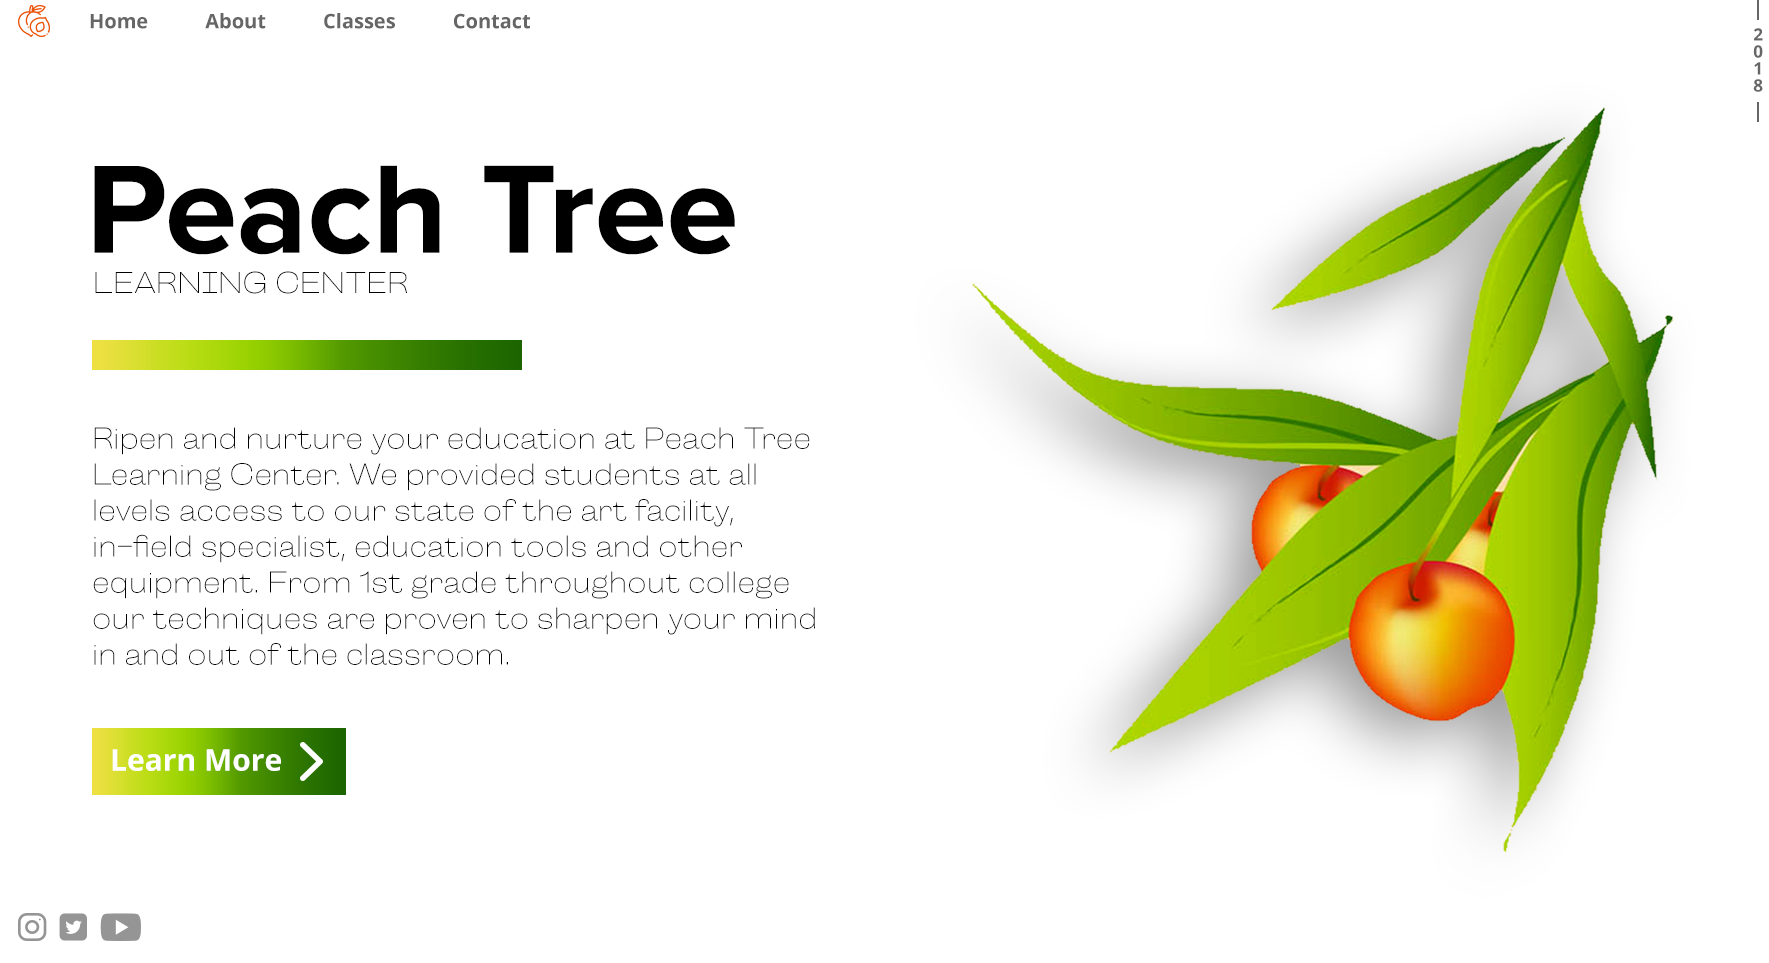
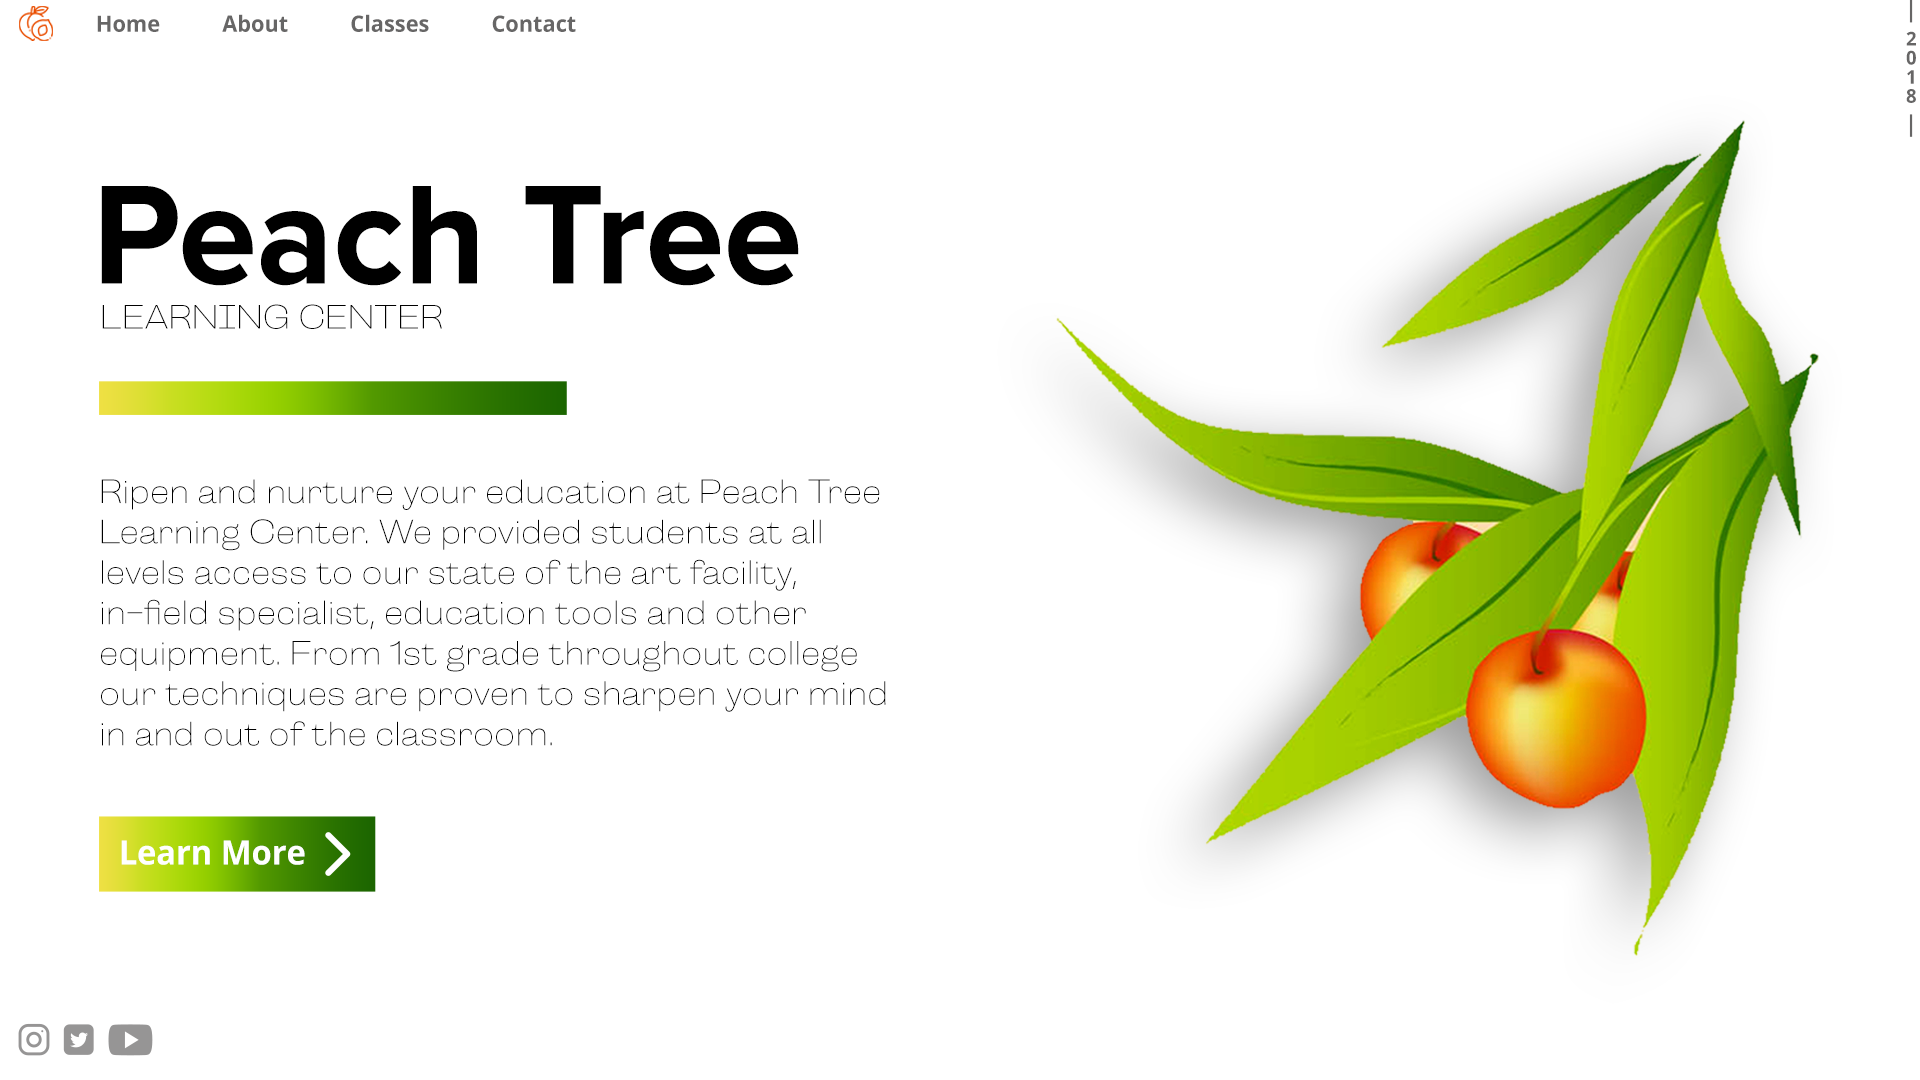
add header

diff --git a/css/creative.min.css b/css/creative.min.css
@@ -2,4 +2,4 @@
  * Start Bootstrap - Creative v5.0.1 (https://startbootstrap.com/template-overviews/creative)
  * Copyright 2013-2018 Start Bootstrap
  * Licensed under MIT (https://github.com/BlackrockDigital/startbootstrap-creative/blob/master/LICENSE)
- */body,html{width:100%;height:100%}body{font-family:Merriweather,'Helvetica Neue',Arial,sans-serif}hr{max-width:50px;border-width:3px;border-color:#f05f40}hr.light{border-color:#fff}a{color:#f05f40;-webkit-transition:all .2s;transition:all .2s}a:hover{color:#f05f40}h1,h2,h3,h4,h5,h6{font-family:'Open Sans','Helvetica Neue',Arial,sans-serif}.bg-primary{background-color:#f05f40!important}.bg-dark{background-color:#212529!important}.text-faded{color:rgba(255,255,255,.7)}section{padding:8rem 0}.section-heading{margin-top:0}::-moz-selection{color:#fff;background:#212529;text-shadow:none}::selection{color:#fff;background:#212529;text-shadow:none}img::-moz-selection{color:#fff;background:0 0}img::selection{color:#fff;background:0 0}img::-moz-selection{color:#fff;background:0 0}#mainNav{border-bottom:1px solid rgba(33,37,41,.1);background-color:#fff;font-family:'Open Sans','Helvetica Neue',Arial,sans-serif;-webkit-transition:all .2s;transition:all .2s}#mainNav .navbar-brand{font-weight:700;text-transform:uppercase;color:#f05f40;font-family:'Open Sans','Helvetica Neue',Arial,sans-serif}#mainNav .navbar-brand:focus,#mainNav .navbar-brand:hover{color:#f05f40}#mainNav .navbar-nav>li.nav-item>a.nav-link,#mainNav .navbar-nav>li.nav-item>a.nav-link:focus{font-size:.9rem;font-weight:700;text-transform:uppercase;color:#212529}#mainNav .navbar-nav>li.nav-item>a.nav-link:focus:hover,#mainNav .navbar-nav>li.nav-item>a.nav-link:hover{color:#f05f40}#mainNav .navbar-nav>li.nav-item>a.nav-link.active,#mainNav .navbar-nav>li.nav-item>a.nav-link:focus.active{color:#f05f40!important;background-color:transparent}#mainNav .navbar-nav>li.nav-item>a.nav-link.active:hover,#mainNav .navbar-nav>li.nav-item>a.nav-link:focus.active:hover{background-color:transparent}@media (min-width:992px){#mainNav{border-color:transparent;background-color:transparent}#mainNav .navbar-brand{color:rgba(255,255,255,.7)}#mainNav .navbar-brand:focus,#mainNav .navbar-brand:hover{color:#fff}#mainNav .navbar-nav>li.nav-item>a.nav-link{padding:.5rem 1rem}#mainNav .navbar-nav>li.nav-item>a.nav-link,#mainNav .navbar-nav>li.nav-item>a.nav-link:focus{color:rgba(255,255,255,.7)}#mainNav .navbar-nav>li.nav-item>a.nav-link:focus:hover,#mainNav .navbar-nav>li.nav-item>a.nav-link:hover{color:#fff}#mainNav.navbar-shrink{border-bottom:1px solid rgba(33,37,41,.1);background-color:#fff}#mainNav.navbar-shrink .navbar-brand{color:#f05f40}#mainNav.navbar-shrink .navbar-brand:focus,#mainNav.navbar-shrink .navbar-brand:hover{color:#f05f40}#mainNav.navbar-shrink .navbar-nav>li.nav-item>a.nav-link,#mainNav.navbar-shrink .navbar-nav>li.nav-item>a.nav-link:focus{color:#212529}#mainNav.navbar-shrink .navbar-nav>li.nav-item>a.nav-link:focus:hover,#mainNav.navbar-shrink .navbar-nav>li.nav-item>a.nav-link:hover{color:#f05f40}}header.masthead{padding-top:10rem;padding-bottom:calc(10rem - 56px);background-image:url(../img/header.jpg);background-position:center center;background-size:cover}header.masthead hr{margin-top:30px;margin-bottom:30px}header.masthead h1{font-size:2rem}header.masthead p{font-weight:300}@media (min-width:768px){header.masthead p{font-size:1.15rem}}@media (min-width:992px){header.masthead{height:100vh;min-height:650px;padding-top:0;padding-bottom:0}header.masthead h1{font-size:3rem}}@media (min-width:1200px){header.masthead h1{font-size:4rem}}.service-box{max-width:400px}.portfolio-box{position:relative;display:block;max-width:650px;margin:0 auto}.portfolio-box .portfolio-box-caption{position:absolute;bottom:0;display:block;width:100%;height:100%;text-align:center;opacity:0;color:#fff;background:rgba(240,95,64,.9);-webkit-transition:all .2s;transition:all .2s}.portfolio-box .portfolio-box-caption .portfolio-box-caption-content{position:absolute;top:50%;width:100%;-webkit-transform:translateY(-50%);transform:translateY(-50%);text-align:center}.portfolio-box .portfolio-box-caption .portfolio-box-caption-content .project-category,.portfolio-box .portfolio-box-caption .portfolio-box-caption-content .project-name{padding:0 15px;font-family:'Open Sans','Helvetica Neue',Arial,sans-serif}.portfolio-box .portfolio-box-caption .portfolio-box-caption-content .project-category{font-size:14px;font-weight:600;text-transform:uppercase}.portfolio-box .portfolio-box-caption .portfolio-box-caption-content .project-name{font-size:18px}.portfolio-box:hover .portfolio-box-caption{opacity:1}.portfolio-box:focus{outline:0}@media (min-width:768px){.portfolio-box .portfolio-box-caption .portfolio-box-caption-content .project-category{font-size:16px}.portfolio-box .portfolio-box-caption .portfolio-box-caption-content .project-name{font-size:22px}}.text-primary{color:#f05f40!important}.btn{font-weight:700;text-transform:uppercase;border:none;border-radius:300px;font-family:'Open Sans','Helvetica Neue',Arial,sans-serif}.btn-xl{padding:1rem 2rem}.btn-primary{background-color:#f05f40;border-color:#f05f40}.btn-primary:active,.btn-primary:focus,.btn-primary:hover{color:#fff;background-color:#ee4b28!important}.btn-primary:active,.btn-primary:focus{-webkit-box-shadow:0 0 0 .2rem rgba(240,95,64,.5)!important;box-shadow:0 0 0 .2rem rgba(240,95,64,.5)!important}
+ */body,html{width:100%;height:100%}body{font-family:Merriweather,'Helvetica Neue',Arial,sans-serif}hr{max-width:50px;border-width:3px;border-color:#f05f40}hr.light{border-color:#fff}a{color:#f05f40;-webkit-transition:all .2s;transition:all .2s}a:hover{color:#f05f40}h1,h2,h3,h4,h5,h6{font-family:'Open Sans','Helvetica Neue',Arial,sans-serif}.bg-primary{background-color:#f05f40!important}.bg-dark{background-color:#212529!important}.text-faded{color:rgba(255,255,255,.7)}section{padding:8rem 0}.section-heading{margin-top:0}::-moz-selection{color:#fff;background:#212529;text-shadow:none}::selection{color:#fff;background:#212529;text-shadow:none}img::-moz-selection{color:#fff;background:0 0}img::selection{color:#fff;background:0 0}img::-moz-selection{color:#fff;background:0 0}#mainNav{border-bottom:1px solid rgba(33,37,41,.1);background-color:#fff;font-family:'Open Sans','Helvetica Neue',Arial,sans-serif;-webkit-transition:all .2s;transition:all .2s}#mainNav .navbar-brand{font-weight:700;text-transform:uppercase;color:#f05f40;font-family:'Open Sans','Helvetica Neue',Arial,sans-serif}#mainNav .navbar-brand:focus,#mainNav .navbar-brand:hover{color:#f05f40}#mainNav .navbar-nav>li.nav-item>a.nav-link,#mainNav .navbar-nav>li.nav-item>a.nav-link:focus{font-size:.9rem;font-weight:700;text-transform:uppercase;color:#212529}#mainNav .navbar-nav>li.nav-item>a.nav-link:focus:hover,#mainNav .navbar-nav>li.nav-item>a.nav-link:hover{color:#f05f40}#mainNav .navbar-nav>li.nav-item>a.nav-link.active,#mainNav .navbar-nav>li.nav-item>a.nav-link:focus.active{color:#f05f40!important;background-color:transparent}#mainNav .navbar-nav>li.nav-item>a.nav-link.active:hover,#mainNav .navbar-nav>li.nav-item>a.nav-link:focus.active:hover{background-color:transparent}@media (min-width:992px){#mainNav{border-color:transparent;background-color:transparent}#mainNav .navbar-brand{color:rgba(255,255,255,.7)}#mainNav .navbar-brand:focus,#mainNav .navbar-brand:hover{color:#fff}#mainNav .navbar-nav>li.nav-item>a.nav-link{padding:.5rem 1rem}#mainNav .navbar-nav>li.nav-item>a.nav-link,#mainNav .navbar-nav>li.nav-item>a.nav-link:focus{color:rgba(255,255,255,.7)}#mainNav .navbar-nav>li.nav-item>a.nav-link:focus:hover,#mainNav .navbar-nav>li.nav-item>a.nav-link:hover{color:#fff}#mainNav.navbar-shrink{border-bottom:1px solid rgba(33,37,41,.1);background-color:#fff}#mainNav.navbar-shrink .navbar-brand{color:#f05f40}#mainNav.navbar-shrink .navbar-brand:focus,#mainNav.navbar-shrink .navbar-brand:hover{color:#f05f40}#mainNav.navbar-shrink .navbar-nav>li.nav-item>a.nav-link,#mainNav.navbar-shrink .navbar-nav>li.nav-item>a.nav-link:focus{color:#212529}#mainNav.navbar-shrink .navbar-nav>li.nav-item>a.nav-link:focus:hover,#mainNav.navbar-shrink .navbar-nav>li.nav-item>a.nav-link:hover{color:#f05f40}}header.masthead{padding-top:10rem;padding-bottom:calc(10rem - 56px);background-image:url(../img/header.png);background-position:center center;background-size:cover}header.masthead hr{margin-top:30px;margin-bottom:30px}header.masthead h1{font-size:2rem}header.masthead p{font-weight:300}@media (min-width:768px){header.masthead p{font-size:1.15rem}}@media (min-width:992px){header.masthead{height:100vh;min-height:650px;padding-top:0;padding-bottom:0}header.masthead h1{font-size:3rem}}@media (min-width:1200px){header.masthead h1{font-size:4rem}}.service-box{max-width:400px}.portfolio-box{position:relative;display:block;max-width:650px;margin:0 auto}.portfolio-box .portfolio-box-caption{position:absolute;bottom:0;display:block;width:100%;height:100%;text-align:center;opacity:0;color:#fff;background:rgba(240,95,64,.9);-webkit-transition:all .2s;transition:all .2s}.portfolio-box .portfolio-box-caption .portfolio-box-caption-content{position:absolute;top:50%;width:100%;-webkit-transform:translateY(-50%);transform:translateY(-50%);text-align:center}.portfolio-box .portfolio-box-caption .portfolio-box-caption-content .project-category,.portfolio-box .portfolio-box-caption .portfolio-box-caption-content .project-name{padding:0 15px;font-family:'Open Sans','Helvetica Neue',Arial,sans-serif}.portfolio-box .portfolio-box-caption .portfolio-box-caption-content .project-category{font-size:14px;font-weight:600;text-transform:uppercase}.portfolio-box .portfolio-box-caption .portfolio-box-caption-content .project-name{font-size:18px}.portfolio-box:hover .portfolio-box-caption{opacity:1}.portfolio-box:focus{outline:0}@media (min-width:768px){.portfolio-box .portfolio-box-caption .portfolio-box-caption-content .project-category{font-size:16px}.portfolio-box .portfolio-box-caption .portfolio-box-caption-content .project-name{font-size:22px}}.text-primary{color:#f05f40!important}.btn{font-weight:700;text-transform:uppercase;border:none;border-radius:300px;font-family:'Open Sans','Helvetica Neue',Arial,sans-serif}.btn-xl{padding:1rem 2rem}.btn-primary{background-color:#f05f40;border-color:#f05f40}.btn-primary:active,.btn-primary:focus,.btn-primary:hover{color:#fff;background-color:#ee4b28!important}.btn-primary:active,.btn-primary:focus{-webkit-box-shadow:0 0 0 .2rem rgba(240,95,64,.5)!important;box-shadow:0 0 0 .2rem rgba(240,95,64,.5)!important}

diff --git a/index.html b/index.html
@@ -206,15 +206,15 @@
             </a>
           </div>
           <div class="col-lg-4 col-sm-6">
-            <a class="portfolio-box" href="img/portfolio/fullsize/6.jpg">
-              <img class="img-fluid" src="img/portfolio/thumbnails/6.jpg" alt="">
+            <a class="portfolio-box" href="img/portfolio/fullsize/6.png">
+              <img class="img-fluid" src="img/portfolio/thumbnails/6.png" alt="">
               <div class="portfolio-box-caption">
                 <div class="portfolio-box-caption-content">
                   <div class="project-category text-faded">
-                    Category
+                    Design / Development
                   </div>
                   <div class="project-name">
-                    Project Name
+                    Recon CPA
                   </div>
                 </div>
               </div>
